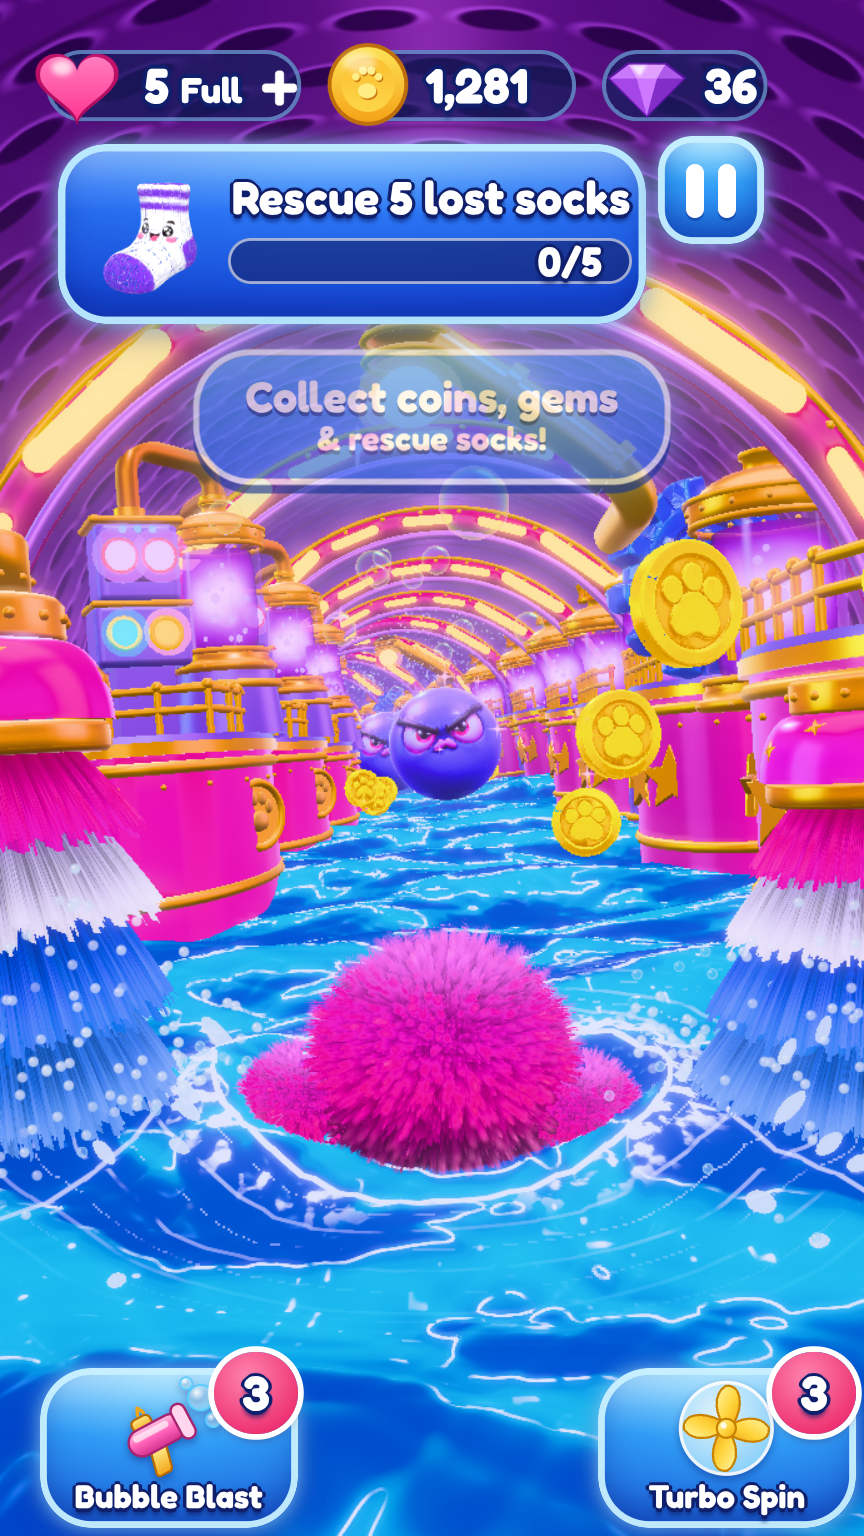
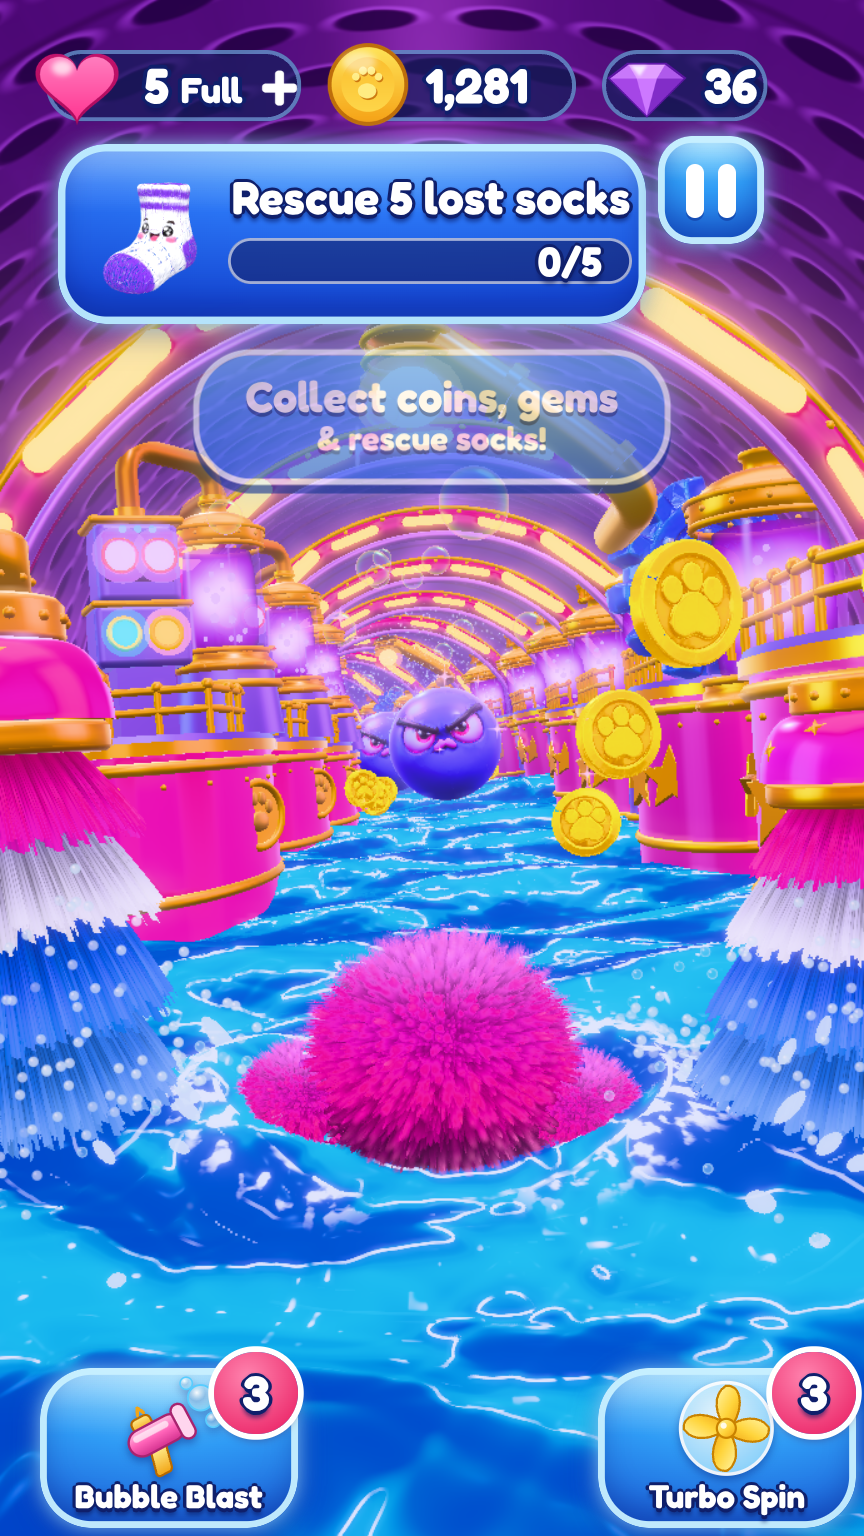
hero7 waterline test (session ddf175f2): broken white highlights (collar 2.2, gap 0.45, froth 4.5; contact 0.58/0.5 keeps the nubs visible); final approved | game side-by-side; route = baseline, 0 errors; plain launch and Classic Screen 4 0 px; hero7 measuring tools moved into the repository
Claude-Session: https://claude.ai/code/session_01DwoMMnWJLnnpotza7XAgCm

diff --git a/WebDemo/game.bundle.js b/WebDemo/game.bundle.js
@@ -5107,7 +5107,7 @@ uniform vec2 uBand; uniform float uR, uGoldK, uHotW, uGlassK; uniform vec3 uGold
         float side = 0.55 + 0.45 * abs(sin(ang));
         float a = smoothstep(0.42, 0.62, k * (1.15 - t) * side + 0.18 * (1.0 - t)) * (1.0 - smoothstep(0.75, 1.0, t)) * uFoam.z;
         gl_FragColor = vec4(uCol * (0.85 + 0.2 * k), a * uFade);
-      }`}));y.frustumCulled=!1,y.renderOrder=4,y.name="crown6Foam",y.position.y=n.foamY,t.add(y,f);let S=null;function x(M,R,E,T){if(!E||!E.root)return;S!==E.root&&(t.parent&&t.parent.remove(t),E.root.add(t),S=E.root),u.value=R,h.value=n.R,p.value.setRGB(...n.color),g.value.setRGB(...n.edge),b.value=n.speed,v.value.set(n.foam.r[0],n.foam.r[1],n.foam.alpha),w.value=n.foam.scale,y.position.y=n.foamY;let _=(E.tilt?E.tilt.position.y:0)+n.sink;t.position.set(0,_+n.y,0);let H=!T||T==="running",L=E.air||!H?0:1;d.value+=(L-d.value)*Math.min(1,M*8),!H&&T==="complete"&&(d.value=0),t.visible=d.value>.02}return{update:x,group:t}}var C1=typeof window>"u"?[]:window.__BW_S3__||((location.search.match(/[?&]s3=([^&]*)/)||[])[1]||"").split(","),P1=C1.includes("s56")&&C1.includes("level1")&&C1.includes("hero7"),Gx={R:.32,y:-.24,airY:0,sink:.78,nub:{r:.52,x:1.02,y:-.28,z:-.3},shells:32,len:.22,comb:.75,droop:.1,pole:[0,.62,-.79],dens:[24,36],rad:.45,lenVar:.45,soft:.35,clump:{dens:14,k:.9,len:.3,shade:.25},base:[.28,0,.15],lower:[1.3,.03,.55],upper:[1.35,.12,.85],top:[1.35,.45,1.25],ramp:[-.25,.1,.5,.92],vary:.8,ao:.62,tip:.42,spec:.8,specExp:24,rim:.25,light:[.25,.9,-.45],contact:[.58,.5],water:{foam:[2.2,2.3,2.5],collar:3,froth:4,gap:.2,ripple:.4},hideOld:1};P1&&typeof window<"u"&&(window.__bwHero7=Gx);var N4=`
+      }`}));y.frustumCulled=!1,y.renderOrder=4,y.name="crown6Foam",y.position.y=n.foamY,t.add(y,f);let S=null;function x(M,R,E,T){if(!E||!E.root)return;S!==E.root&&(t.parent&&t.parent.remove(t),E.root.add(t),S=E.root),u.value=R,h.value=n.R,p.value.setRGB(...n.color),g.value.setRGB(...n.edge),b.value=n.speed,v.value.set(n.foam.r[0],n.foam.r[1],n.foam.alpha),w.value=n.foam.scale,y.position.y=n.foamY;let _=(E.tilt?E.tilt.position.y:0)+n.sink;t.position.set(0,_+n.y,0);let H=!T||T==="running",L=E.air||!H?0:1;d.value+=(L-d.value)*Math.min(1,M*8),!H&&T==="complete"&&(d.value=0),t.visible=d.value>.02}return{update:x,group:t}}var C1=typeof window>"u"?[]:window.__BW_S3__||((location.search.match(/[?&]s3=([^&]*)/)||[])[1]||"").split(","),P1=C1.includes("s56")&&C1.includes("level1")&&C1.includes("hero7"),Gx={R:.32,y:-.24,airY:0,sink:.78,nub:{r:.52,x:1.02,y:-.28,z:-.3},shells:32,len:.22,comb:.75,droop:.1,pole:[0,.62,-.79],dens:[24,36],rad:.45,lenVar:.45,soft:.35,clump:{dens:14,k:.9,len:.3,shade:.25},base:[.28,0,.15],lower:[1.3,.03,.55],upper:[1.35,.12,.85],top:[1.35,.45,1.25],ramp:[-.25,.1,.5,.92],vary:.8,ao:.62,tip:.42,spec:.8,specExp:24,rim:.25,light:[.25,.9,-.45],contact:[.58,.5],water:{foam:[2.2,2.3,2.5],collar:2.2,froth:4.5,gap:.45,ripple:.4},hideOld:1};P1&&typeof window<"u"&&(window.__bwHero7=Gx);var N4=`
 attribute float aShell;
 uniform float uN, uLen, uComb, uDroop, uScaleR; uniform vec3 uPole;
 varying vec3 vRoot; varying vec3 vN; varying vec3 vT; varying vec3 vV; varying float vH; varying vec3 vBody;

diff --git a/WebDemo/src/s56_hero7.js b/WebDemo/src/s56_hero7.js
@@ -38,7 +38,7 @@ export const HERO7 = {
   contact: [0.58, 0.5],   // the water's contact radii round him (m: across, along): the pile-up and the white collar hug the dome and nubs
   // the water's white at his base: its foam over white so it survives the scene grade (fin6 exposure 0.72 dimmed white to grey: 0 % near-white at
   // his base vs the approved 11 %); its collar and side froth stronger and less broken (measured: 5.2 % near-white with these). S56.water fields.
-  water: { foam: [2.2, 2.3, 2.5], collar: 3.0, froth: 4.0, gap: 0.2, ripple: 0.4 },   // (ripple 1.0 -> 0.4: the spreading ring lines read as white rings; the contact white kept)
+  water: { foam: [2.2, 2.3, 2.5], collar: 2.2, froth: 4.5, gap: 0.45, ripple: 0.4 },   // (waterline test: broken white highlights, not a continuous collar; contact 0.58 / 0.5 keeps the nubs above the water)   // (ripple 1.0 -> 0.4: the spreading ring lines read as white rings; the contact white kept)
   hideOld: 1,   // hide the game mascot's drawn body while hero7 shows (0: both, for comparison)
 };
 if (HERO7_ON && typeof window !== 'undefined') window.__bwHero7 = HERO7;

diff --git a/WebDemo/tools/hero7/hmask.js b/WebDemo/tools/hero7/hmask.js
@@ -1,0 +1,8 @@
+// render only the hero (hero7 group, or the old mascot) and the water; return the canvas; restore visibility
+const keepRoots = [scene.getObjectByName('hero7'), scene.getObjectByName('s56Water'), window.__H7OLD ? d.mascotState.squash : null].filter(Boolean);
+const isKept = (o) => { let p = o; while (p) { if (keepRoots.includes(p)) return true; p = p.parent; } return false; };
+const saved = []; scene.traverse((o) => { if ((o.isMesh || o.isPoints || o.isSprite || o.isLine) && !isKept(o) && o.visible) { saved.push(o); o.visible = false; } });
+const bg = scene.background; scene.background = null; d.renderer.setClearColor(0x000000, 1);
+B.render(); const url = d.renderer.domElement.toDataURL('image/png');
+saved.forEach((o) => { o.visible = true; }); scene.background = bg; B.render();
+return url;

diff --git a/WebDemo/tools/hero7/perf.js b/WebDemo/tools/hero7/perf.js
@@ -1,0 +1,7 @@
+const r = d.renderer; r.info.autoReset = false;
+const meas = () => { r.info.reset(); B.render(); return { calls: r.info.render.calls, tris: r.info.render.triangles }; };
+const all = meas();
+const g = scene.getObjectByName('hero7'), sq = d.mascotState.squash;
+const gv = g ? g.visible : false, sv = sq.visible; if (g) g.visible = false; sq.visible = false;
+const none = meas(); if (g) g.visible = gv; sq.visible = sv; r.info.autoReset = true; B.render();
+return { withHero: all, withoutHero: none, heroCalls: all.calls - none.calls, heroTris: all.tris - none.tris };

diff --git a/WebDemo/tools/hero7/hdiff.js b/WebDemo/tools/hero7/hdiff.js
@@ -1,0 +1,8 @@
+// the hero's visible pixels in the REAL frame: render with and without the drawn hero (hero7 group, or the old body), return both canvases
+const g = scene.getObjectByName('hero7'), sq = d.mascotState.squash;
+const useOld = !(g && g.visible);
+B.render(); const a = d.renderer.domElement.toDataURL('image/png');
+const v1 = g ? g.visible : false, v2 = sq.visible; if (g) g.visible = false; sq.visible = false;
+B.render(); const b = d.renderer.domElement.toDataURL('image/png');
+if (g) g.visible = v1; sq.visible = v2; B.render();
+return [a, b];

diff --git a/WebDemo/index.html b/WebDemo/index.html
@@ -361,7 +361,7 @@ if (!window.__BW_S3__ && !/[?&]s3=/.test(location.search) && !/[?&]classic(=|&|$
   window.__BW_DEFAULT_GAME__ = 'six2+s56';
 }
 </script>
-<script type="module" src="game.bundle.js?v=108c2034"></script>
+<script type="module" src="game.bundle.js?v=5ab6ee34"></script>
 
 </body>
 </html>

diff --git a/WebDemo/tools/hero7/hcol.py b/WebDemo/tools/hero7/hcol.py
@@ -1,0 +1,19 @@
+# colour bands of the hero (top / upper / lower / base quarters of its visible height): median colour, luminance p10/50/90, saturation
+import sys, numpy as np, colorsys
+from PIL import Image
+def bands(I, M, top, bot, l, r):
+  out=[]
+  for k,(a,b) in enumerate(((0,0.25),(0.25,0.5),(0.5,0.75),(0.75,1.0))):
+    y0=int((top+(bot-top)*a)*1536); y1=int((top+(bot-top)*b)*1536); x0=int(l*864); x1=int(r*864)
+    m=M[y0:y1,x0:x1]; px=I[y0:y1,x0:x1][m]
+    if not len(px): out.append(None); continue
+    med=np.median(px,0); h,li,s=colorsys.rgb_to_hls(*med); lum=px.mean(1)
+    out.append('#%02x%02x%02x L%.2f S%.2f p10/90 %.2f/%.2f'%(*(med*255).astype(int),li,s,np.percentile(lum,10),np.percentile(lum,90)))
+  return out
+A=np.asarray(Image.open('/home/user/bubblegame/Design/ReferencePacks/2026-11-09_Six_Approved_Portrait_Scenes_from_user/06_Swim_Collect_Avoid_Enemies.png').convert('RGB')).astype(float)/255
+R,G,B=A[...,0],A[...,1],A[...,2]; MA=(R>0.4)&(R>G*1.6)&(B>G)&(R>B*0.75)
+for n,v in zip(('top','upper','lower','base'), bands(A,MA,0.606,0.756,0.30,0.69)): print('approved', n.ljust(6), v)
+for f in sys.argv[1:]:
+  I=np.asarray(Image.open(f).convert('RGB').resize((864,1536))).astype(float)/255; M=np.asarray(Image.open(f.replace('.png','_vis.png')).convert('L').resize((864,1536)))>128
+  ys,xs=np.nonzero(M[int(0.45*1536):]); top=(ys.min()+int(0.45*1536))/1536; bot=(ys.max()+int(0.45*1536))/1536
+  for n,v in zip(('top','upper','lower','base'), bands(I,M,top,bot,0.32,0.70)): print(f.split('/')[-1][:14].ljust(14), n.ljust(6), v)

diff --git a/WebDemo/tools/hero7/hdmeasure.py b/WebDemo/tools/hero7/hdmeasure.py
@@ -1,0 +1,20 @@
+import sys, json, base64, io, numpy as np
+from PIL import Image
+def img(u): return np.asarray(Image.open(io.BytesIO(base64.b64decode(u.split(',')[1]))).convert('RGB').resize((864,1536))).astype(float)
+j=json.load(open(sys.argv[1])); out={}
+for v in j['vars']:
+  r=v['ret']
+  if not (isinstance(r, list) and len(r)==2): continue
+  A,B=img(r[0]),img(r[1]); m=np.abs(A-B).max(2)>18
+  m[:int(0.45*1536)]=False
+  # keep the main blob region (columns/rows with enough pixels)
+  rows=m.sum(1); cols=m.sum(0); ry=np.nonzero(rows>5)[0]; cx=np.nonzero(cols>5)[0]
+  if not len(ry): print(v['tag'], None); continue
+  wl=ry.max(); top=ry.min()
+  # width at the widest row
+  wrow=max(range(top,wl+1), key=lambda y: m[y].sum()); xs=np.nonzero(m[wrow])[0]
+  res=dict(left=round(cx.min()/864,3), right=round(cx.max()/864,3), width=round((cx.max()-cx.min())/864,3), top=round(top/1536,3), waterline=round(wl/1536,3), height=round((wl-top)/1536,3))
+  Image.fromarray((A).astype('uint8')).save(sys.argv[1].replace('var6.json', v['tag']+'.png'))
+  Image.fromarray((m*255).astype('uint8')).save(sys.argv[1].replace('var6.json', v['tag']+'_vis.png'))
+  print(v['tag'].ljust(18), res); out[v['tag']]=res
+json.dump(out, open(sys.argv[1].replace('var6.json','measure.json'),'w'), indent=1)

diff --git a/WebDemo/tools/hero7/hmeasure.py b/WebDemo/tools/hero7/hmeasure.py
@@ -1,0 +1,15 @@
+# hero silhouette from a mask render (only the hero + water drawn): pink pixels; box + width at the water line
+import sys, json, base64, io, numpy as np
+from PIL import Image
+def from_url(u): return Image.open(io.BytesIO(base64.b64decode(u.split(',')[1]))).convert('RGB')
+def measure(img):
+  I=np.asarray(img.resize((864,1536))).astype(float)/255; R,G,B=I[...,0],I[...,1],I[...,2]
+  pink=(R>0.25)&(R>G*1.8)&(B>G)&(R>B*0.7)
+  pink[:int(0.4*1536)]=False
+  rows=pink.sum(1); ry=np.nonzero(rows>4)[0]; cols=pink.sum(0); cx=np.nonzero(cols>4)[0]
+  if not len(ry): return None
+  return dict(left=round(cx.min()/864,3), right=round(cx.max()/864,3), width=round((cx.max()-cx.min())/864,3), top=round(ry.min()/1536,3), bottom=round(ry.max()/1536,3))
+j=json.load(open(sys.argv[1]))
+for v in j['vars']:
+  if isinstance(v['ret'], str) and v['ret'].startswith('data:'):
+    img=from_url(v['ret']); img.save(sys.argv[1].replace('var6.json', v['tag']+'_mask.png')); print(v['tag'].ljust(16), measure(img))

diff --git a/WebDemo/tools/hero7/README.md b/WebDemo/tools/hero7/README.md
@@ -1,0 +1,8 @@
+# hero7 measuring tools (session ddf175f2). Used with WebDemo/tools/env6/var6.cjs (one page load, the game frozen at u 206, JS variants re-rendered).
+- `hdiff.js`: a var6 variant body: renders the real frame with and without the drawn hero, returns both canvases. Then
+  `python3 hdmeasure.py <out>/var6.json` = the hero's VISIBLE silhouette (left, right, top, water line) + `<tag>.png` and `<tag>_vis.png`.
+- `hcol.py <frame.png>` (needs `<frame>_vis.png` next to it) = colour bands (top / upper / lower / base) vs the approved hero.
+- `perf.js` = the hero's draw calls and triangles (renderer.info with / without him). `motion.json` = VARS for a swim / lane / jump / spin sequence.
+- `hmask.js`, `hmeasure.py` = an older full-ball mask (water hidden).
+Example: `python3 -c "import json; json.dump([['a', open('tools/hero7/hdiff.js').read()]], open('/tmp/v.json','w'))"` then
+`S3=<list>,hero7 VARS=@/tmp/v.json flock /tmp/bw_browser.lock node tools/env6/var6.cjs $PWD <out>` and `python3 tools/hero7/hdmeasure.py <out>/var6.json`.
